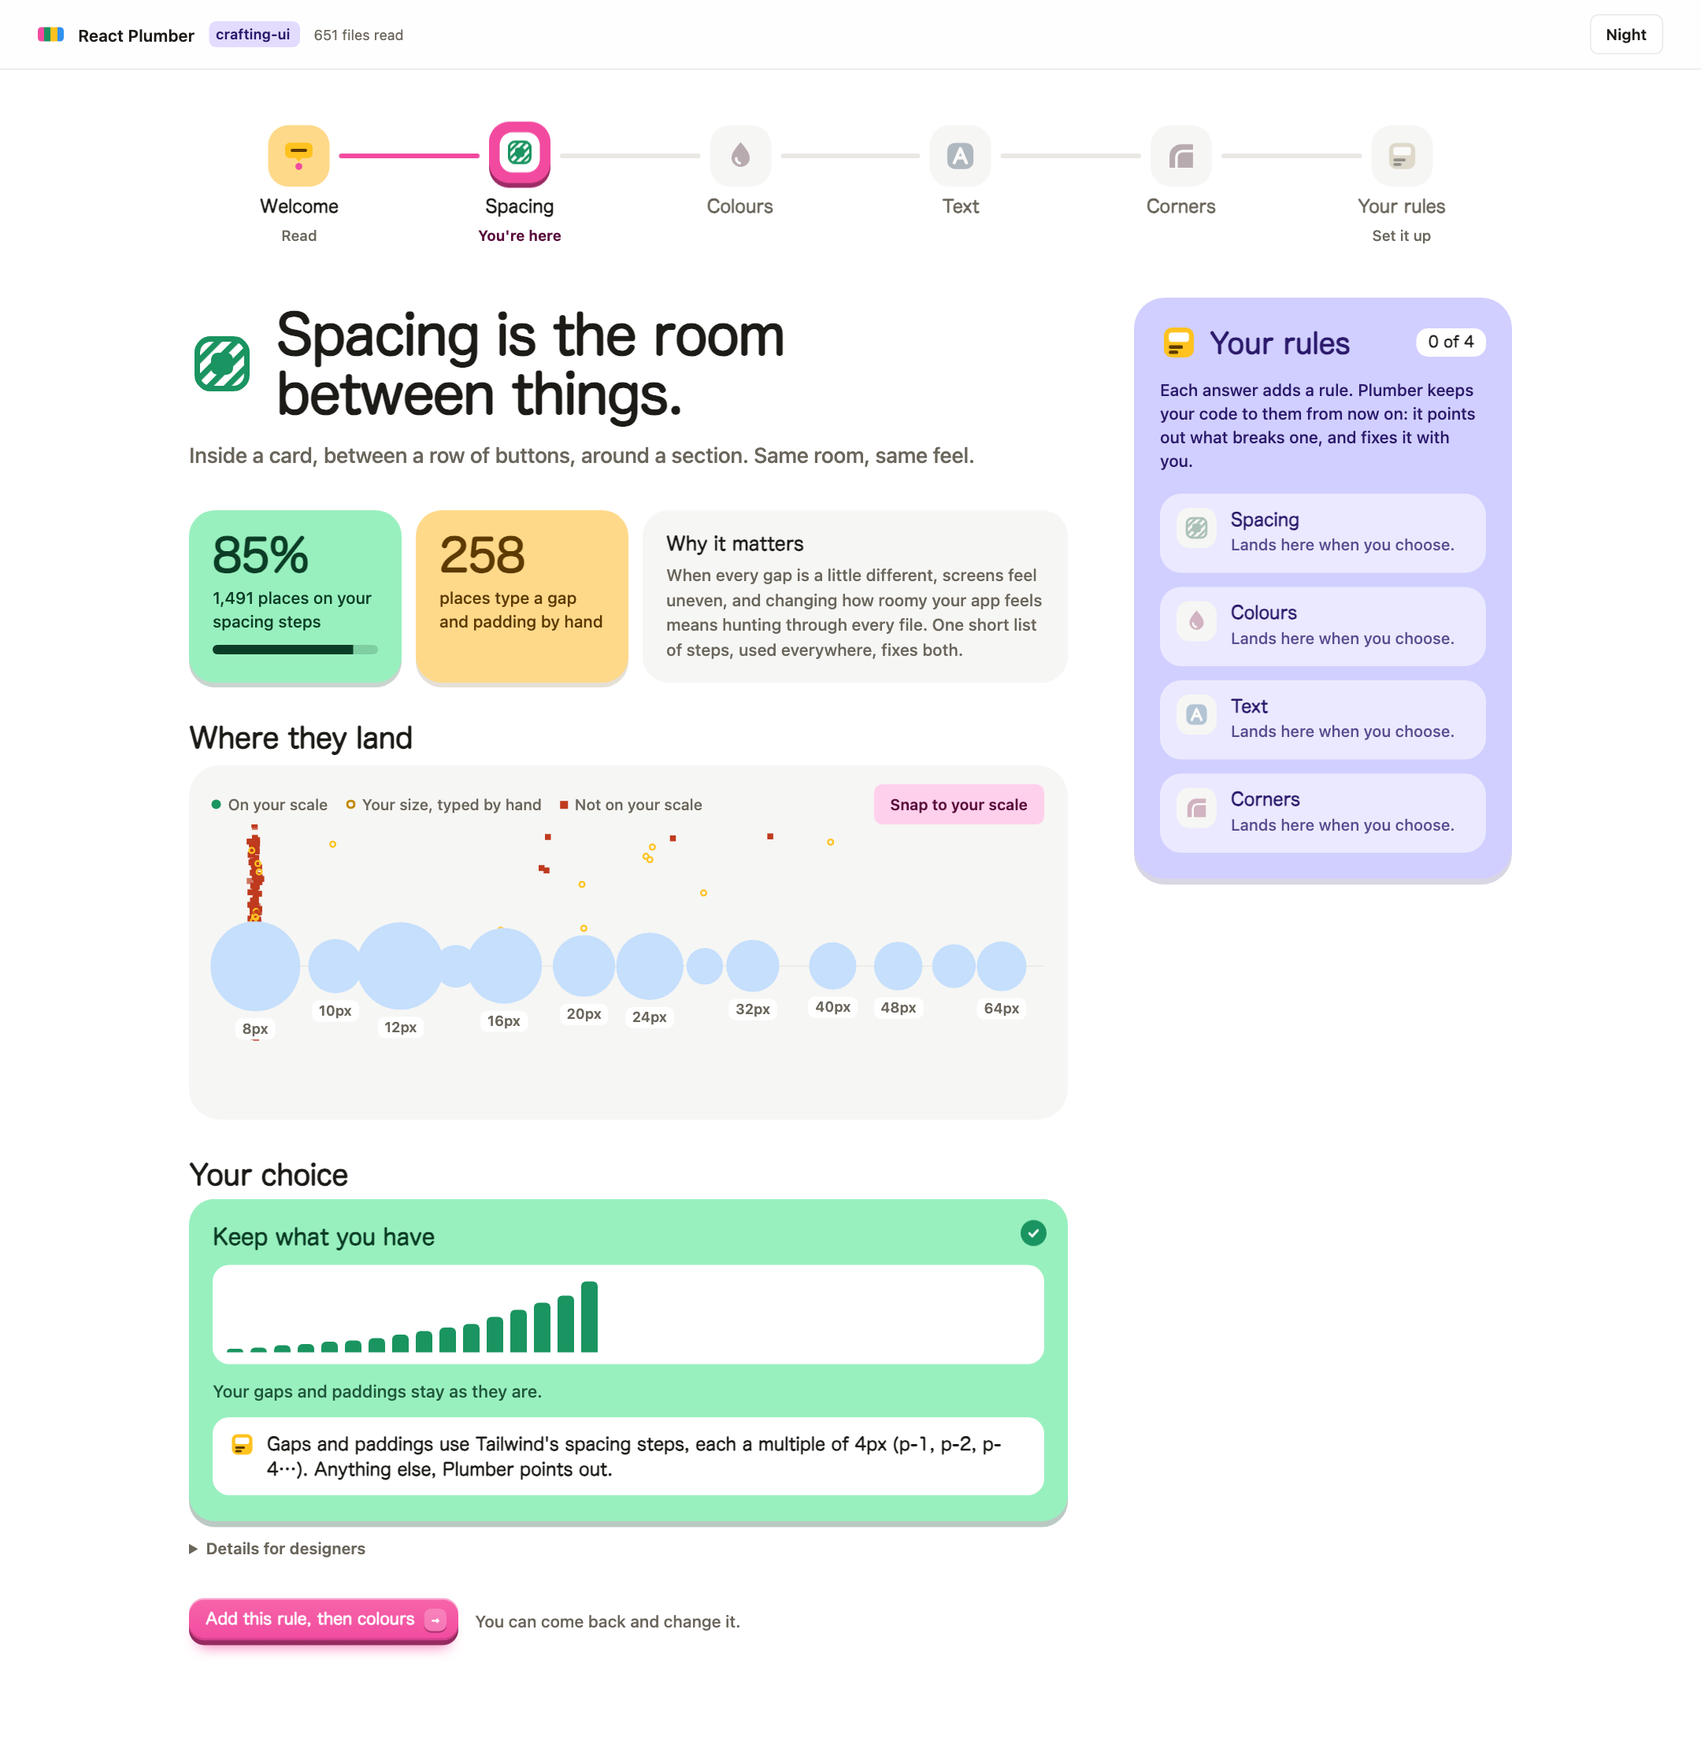
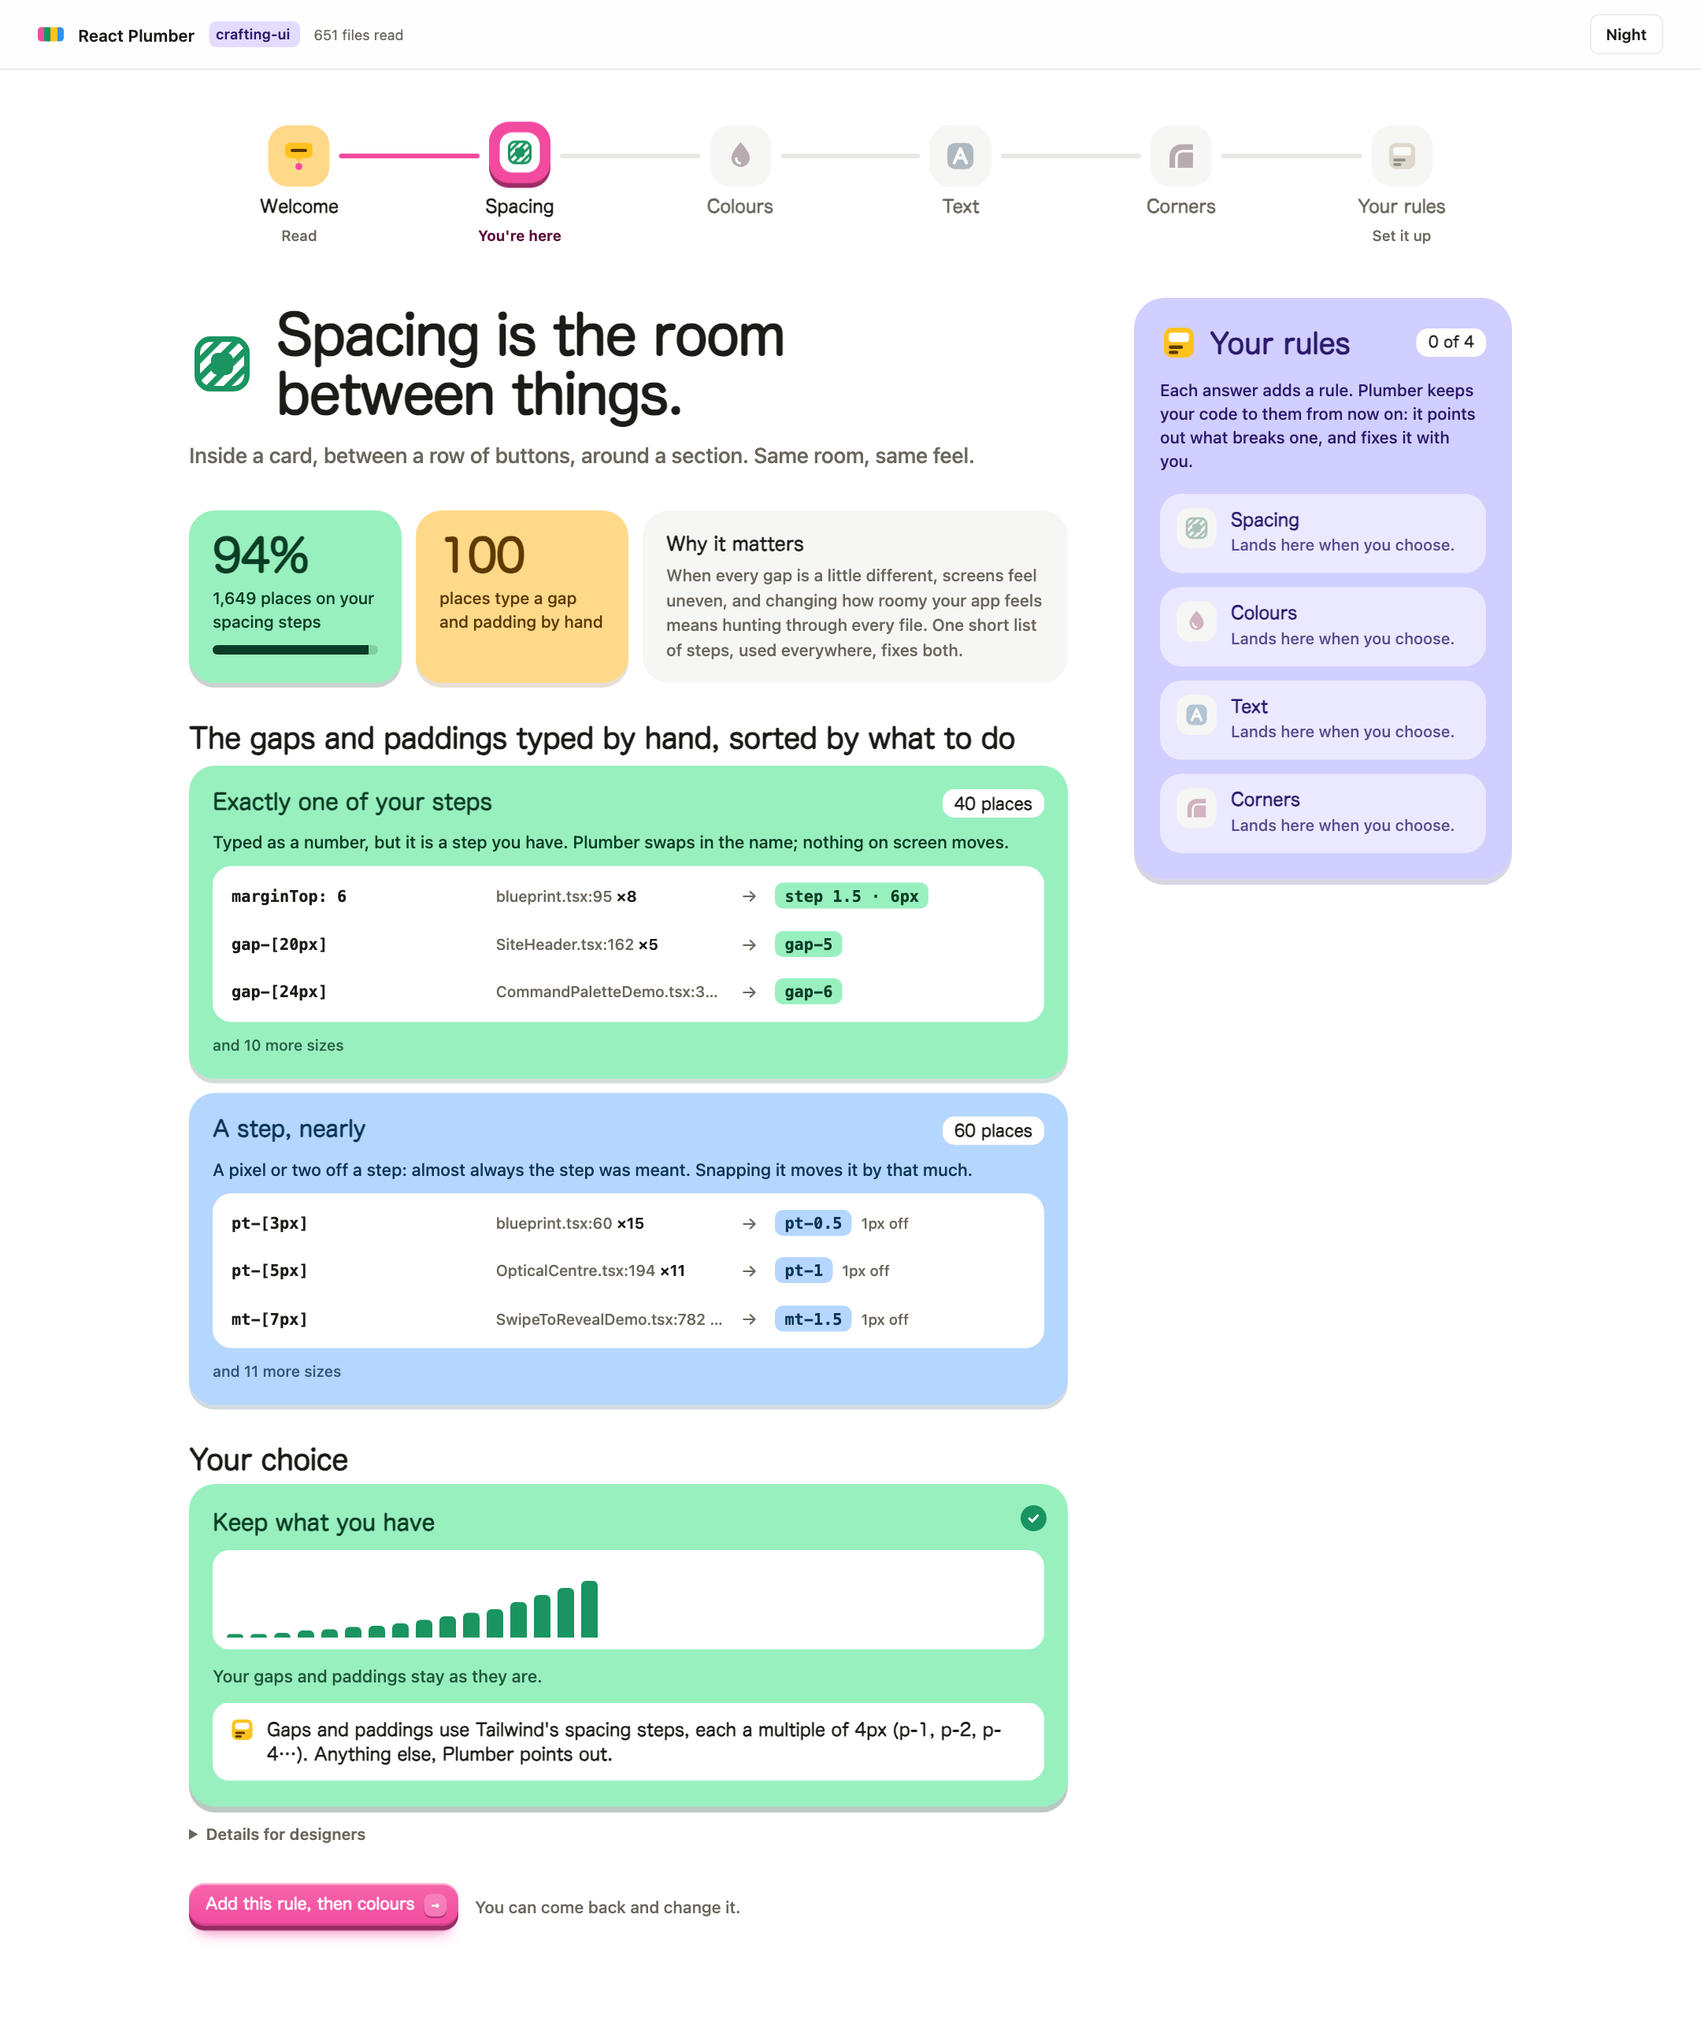
feat(onboarding): sizes typed by hand sorted by what to do, with real lines; Tailwind's step 1 counts as a step
The dot chart is replaced by three piles (exactly a step, a step nearly, far from every step), each with its busiest
lines as written, where they are and what they become. The page data carries each value's first places. gap-1 is
var(--spacing) with no multiplier, and the page now reads it as step 1.

diff --git a/overlay/src/lesson.js b/overlay/src/lesson.js
@@ -140,6 +140,31 @@ const LESSON_CSS = `
   @keyframes becomes-in { from { opacity: 0; translate: 0 4px; } }
   @media (prefers-reduced-motion: reduce) { .becomes { animation: none; } }
 
+  /* the sizes typed by hand, as three piles; each a soft block in a hue that says what it is (mint: the same, sky:
+     almost, coral: off), its busiest lines on a white cut-out: as written, where, and what it becomes */
+  .piles { display: grid; gap: 12px; }
+  .pile { display: grid; gap: 10px; padding: 18px 20px 20px; border-radius: 22px; background: var(--hf); color: var(--hi); box-shadow: 0 4px 0 color-mix(in oklab, var(--hi) 18%, transparent); }
+  .pile header { display: flex; align-items: baseline; gap: 12px; }
+  .pile header b { font: var(--pl-round-w, 700) 19px/24px var(--pl-round); }
+  .pile header .n { margin-left: auto; padding: 3px 10px; border-radius: 10px; background: var(--pl-cut); color: var(--pl-ink); font: var(--pl-round-w, 700) 14px/18px var(--pl-round); font-variant-numeric: tabular-nums; }
+  .pile > p { margin: 0; font: 500 14.5px/21px var(--pl-sans); }
+  .pile ol { display: grid; gap: 2px; margin: 0; padding: 6px; border-radius: 16px; background: var(--pl-cut); list-style: none; }
+  .pile li { display: grid; grid-template-columns: minmax(0, 1.1fr) minmax(0, 1fr) 20px minmax(0, 1.1fr); align-items: center; gap: 12px; padding: 8px 10px; border-radius: 10px; color: var(--pl-ink); }
+  .pile li:hover { background: var(--pl-paper-2); }
+  .pile code { font: 600 13.5px/20px var(--pl-mono); overflow: hidden; text-overflow: ellipsis; white-space: nowrap; }
+  .pile .was { color: var(--pl-ink); }
+  .pile .at { font: 500 13px/18px var(--pl-sans); color: var(--pl-ink-2); overflow: hidden; text-overflow: ellipsis; white-space: nowrap; }
+  .pile .at b { color: var(--pl-ink); font-weight: 650; }
+  .pile .arrow { color: var(--pl-ink-2); text-align: center; }
+  .pile .to { display: flex; align-items: baseline; gap: 8px; min-width: 0; }
+  .pile .to code { padding: 1px 8px; border-radius: 7px; background: var(--hf); color: var(--hi); }
+  .pile .to small { font: 500 12.5px/16px var(--pl-sans); color: var(--pl-ink-2); }
+  .pile .to.far { font: 500 13px/18px var(--pl-sans); color: var(--pl-ink-2); }
+  .pile .more-n { font: 500 13px/18px var(--pl-sans); opacity: .8; }
+  .clear { display: flex; align-items: center; gap: 10px; margin: 0; padding: 16px 20px; border-radius: 22px; background: var(--pl-mint-face); color: var(--pl-mint-ink); font: var(--pl-round-w, 650) 16px/22px var(--pl-round); }
+  .clear .toy { width: 24px; height: 24px; }
+  @media (max-width: 760px) { .pile li { grid-template-columns: minmax(0, 1fr) 20px minmax(0, 1fr); } .pile .at { grid-column: 1 / -1; grid-row: 2; } }
+
   /* the drawing inside the lesson: the lesson names it, so its own title goes; its key sits small at the top; the
      step marks are solid, the count lives in the tiles above, and Snap is a quiet toggle in the corner */
   #gravity .gv-head { padding: 16px 20px 0; }
@@ -421,7 +446,7 @@ export function mountLesson(host, data, { post } = {}) {
     return `<section class="screen" style="--hf: var(${HUES[s.hue][0]}); --hi: var(${HUES[s.hue][1]})">${face(s, m.spec.title, m.spec.line)}
       <div class="body">
         ${today(onSteps, m.byHand, `on your ${m.spec.gravity.sizes}`, `${m.byHand === 1 ? 'place types a' : 'places type a'} ${m.spec.noun} by hand`, m.spec.why)}
-        <div class="part"><h3>Where they land</h3><div id="gravity"></div>${lists}</div>
+        <div class="part"><h3>The ${m.spec.nouns} typed by hand, sorted by what to do</h3>${sorted(m)}${lists}</div>
         <div class="part"><h3>Your choice</h3><div class="choices" role="radiogroup" aria-label="${esc(s.name)}">
           ${m.needed ? `<button type="button" class="choice" role="radio" aria-checked="${state.choice[m.family] === 'tidy'}" data-pick="${m.family}:tidy"><b>One list of ${m.one.steps.length}<span class="rec">Suggested</span></b>${preview(m.family, m.one.steps.map((x) => x.px))}<span>Your lists merged into one, with Tailwind's name. The old names keep working, pointing at the new ones.</span>${chosen('tidy')}</button>` : ''}
           <button type="button" class="choice" role="radio" aria-checked="${state.choice[m.family] === 'keep'}" data-pick="${m.family}:keep"><b>${bare(m) ? 'Skip it for now' : 'Keep what you have'}</b>${bare(m) ? '' : preview(m.family, keepVals, m.twice)}<span>${bare(m) ? skipLine : m.lanes.length > 1 ? `All ${m.lanes.length} lists stay as they are. You can tidy them later.` : `Your ${m.spec.nouns} stay as they are.`}</span>${chosen('keep')}</button>
@@ -429,6 +454,40 @@ export function mountLesson(host, data, { post } = {}) {
           <details class="more"><summary>Details for designers</summary><p><code>${esc(rule.code)}</code><br>${m.lanes.map((l) => `${esc(l.name)} in ${esc(l.file)}: ${l.values.join(', ')}px`).join('<br>') || 'No lists of steps; single tokens only.'}${m.one ? `<br>Merged: ${m.one.steps.map((x) => `${esc(x.name)} ${esc(x.value)}`).join(', ')}` : ''}</p></details></div>
         ${nav(s.id)}
       </div></section>`;
+  };
+
+  /* the sizes typed by hand, in three piles by what a person would do with them: exactly a step (swap in the name,
+     nothing moves), a step's near miss (snap it, it moves a pixel or two), far from every step (one-offs, or a step
+     your list is missing). Each pile shows its busiest lines as written, where they are, and what they'd become */
+  const sorted = (m) => {
+    const d = data[m.spec.data] ?? { steps: [], strays: [] }, steps = [...d.steps].sort((a, b) => a.px - b.px);
+    if (!d.strays.length) return `<p class="clear"><i class="toy">${toyOf('card')}</i>Nothing typed by hand: every ${esc(m.spec.noun)} comes from your theme.</p>`;
+    const stepOf = (name) => steps.find((x) => x.name === name);
+    const short = (name) => String(name).replace(/^(spacing|text|radius)-/, '');
+    const fmt = (v) => `${Math.round(v * 100) / 100}px`;
+    // a Tailwind class written with a bracket value becomes the same utility with the step's name (`p-[16px]` → `p-4`)
+    const swap = (text, step) => { const k = /^(-?[\w:-]*?)-\[[^\]]+\]$/.exec(text ?? ''); return k ? `${k[1]}-${short(step.name)}` : `step ${short(step.name)} · ${fmt(step.px)}`; };
+    const piles = { exact: [], close: [], far: [] };
+    for (const x of d.strays) {
+      const near = stepOf(x.near), off = near ? Math.abs(near.px - x.px) : Infinity;
+      piles[x.copy ? 'exact' : off <= Math.max(2, near.px * 0.125) ? 'close' : 'far'].push({ ...x, step: near, off });
+    }
+    const words = {
+      exact: ['Exactly one of your steps', `Typed as a number, but it is a step you have. Plumber swaps in the name; nothing on screen moves.`, 'mint'],
+      close: ['A step, nearly', `A pixel or two off a step: almost always the step was meant. Snapping it moves it by that much.`, 'sky'],
+      far: ['Far from every step', `One-offs, or a step your list is missing. Plumber points them out; you decide.`, 'coral'],
+    };
+    const row = (x, kind) => {
+      const w = x.written[0]?.text ?? fmt(x.px), at = x.where?.[0];
+      const lo = [...steps].reverse().find((st) => st.px < x.px), hi = steps.find((st) => st.px > x.px);
+      const to = kind === 'far' ? `<span class="to far">${lo && hi ? `between ${fmt(lo.px)} and ${fmt(hi.px)}` : hi ? `below your smallest, ${fmt(hi.px)}` : `above your largest, ${fmt(lo.px)}`}</span>` : `<span class="to"><code>${esc(swap(w, x.step))}</code>${kind === 'close' ? `<small>${fmt(x.off)} off</small>` : ''}</span>`;
+      return `<li><code class="was">${esc(w)}</code><span class="at">${at ? `${esc(at.file.split('/').pop())}:${at.line}` : ''}${x.places > 1 ? ` <b>×${nf.format(x.places)}</b>` : ''}</span><span class="arrow" aria-hidden="true">→</span>${to}</li>`;
+    };
+    return `<div class="piles">${Object.entries(piles).filter(([, xs]) => xs.length).map(([kind, xs]) => {
+      const n = xs.reduce((t, x) => t + x.places, 0), [title, say, hue] = words[kind];
+      return `<section class="pile" style="--hf: var(--pl-${hue}-face); --hi: var(--pl-${hue}-ink)"><header><b>${title}</b><span class="n">${nf.format(n)} ${n === 1 ? 'place' : 'places'}</span></header><p>${say}</p>
+        <ol>${[...xs].sort((a, b) => b.places - a.places).slice(0, 3).map((x) => row(x, kind)).join('')}</ol>${xs.length > 3 ? `<small class="more-n">and ${nf.format(xs.length - 3)} more ${xs.length - 3 === 1 ? 'size' : 'sizes'}</small>` : ''}</section>`;
+    }).join('')}</div>`;
   };
 
   // the problem first: how much of this kind is on your steps, how much is typed by hand, and why that matters

diff --git a/src/project-page/system.ts b/src/project-page/system.ts
@@ -21,7 +21,8 @@ import { runnerOf } from '../runner.js';
  */
 export interface Written { text: string; n: number }
 export interface Step { name: string; px: number; uses: number }
-export interface Stray { px: number; places: number; scaled: number; near: string | null; copy: boolean; written: Written[] }
+/** `where`: the first places it is typed, as a person finds them (path from the project's folder, and line) */
+export interface Stray { px: number; places: number; scaled: number; near: string | null; copy: boolean; written: Written[]; where: { file: string; line: number }[] }
 export interface ColourStep { name: string; css: string; uses: number }
 export interface ColourStray { css: string; places: number; near: string | null; distance: number | null; alpha: string | null; written: Written[] }
 export interface SystemData {
@@ -146,7 +147,8 @@ export function systemOf(report: Report): SystemData {
   // names it (`p-4`); the theme defines no list of its own (algorecall: 98% of spacing on them, drawn as by hand before)
   const numeric = report.numericSpacing && !report.numericSpacing.replaced ? report.numericSpacing.unit : undefined;
   const base = numeric ? px(String(numeric.resolved)) : null;
-  const multiple = (value: string): number | null => { const m = /^calc\(\s*var\(--spacing\)\s*\*\s*(-?\d*\.?\d+)\s*\)$/.exec(value.trim()); return m ? Number(m[1]) : null; };
+  // Tailwind writes step 1 as the base itself (`gap-1` is `gap: var(--spacing)`), every other step as a multiple
+  const multiple = (value: string): number | null => { if (/^var\(--spacing\)$/.test(value.trim())) return 1; const m = /^calc\(\s*var\(--spacing\)\s*\*\s*(-?\d*\.?\d+)\s*\)$/.exec(value.trim()); return m ? Number(m[1]) : null; };
   function scale(family: Report['decisions'][number]['family'], props: Set<string>, least = 0): { steps: Step[]; strays: Stray[] } {
     const steps = new Map<string, Step>();
     for (const d of decisions) {
@@ -156,7 +158,7 @@ export function systemOf(report: Report): SystemData {
       const value = px(part);
       if (value !== null) steps.set(d.name, { name: d.name.slice(2), px: value, uses: 0 });
     }
-    const strays = new Map<number, { places: number; written: Map<string, number>; scaled: number }>();
+    const strays = new Map<number, { places: number; written: Map<string, number>; scaled: number; where: { file: string; line: number }[] }>();
     for (const d of decls) {
       if (!props.has(d.prop)) continue;
       const ref = refs(d).find(r => steps.has(r));
@@ -169,9 +171,10 @@ export function systemOf(report: Report): SystemData {
       const value = !scaled(d) ? px(d.resolved) : px(d.value);
       // below `least` is a unit artifact (a unitless or em value read as px), not a size anyone set
       if (value === null || value < Math.max(least, 0.01)) continue;
-      const s = strays.get(value) ?? { places: 0, written: new Map(), scaled: 0 };
+      const s = strays.get(value) ?? { places: 0, written: new Map<string, number>(), scaled: 0, where: [] as { file: string; line: number }[] };
       strays.set(value, s);
       s.places++; bump(s.written, d.site.text);
+      if (s.where.length < 3 && d.site.file) s.where.push({ file: relative(report.root, d.site.file).replaceAll('\\', '/'), line: d.site.line });
       if (scaled(d)) s.scaled++;
     }
     const ordered = [...steps.values()].sort((a, b) => a.px - b.px);
@@ -180,7 +183,7 @@ export function systemOf(report: Report): SystemData {
       let near: Step | undefined;
       for (const step of ordered) if (!near || Math.abs(step.px - value) < Math.abs(near.px - value)) near = step;
       out.push({ px: value, places: s.places, scaled: s.scaled, near: near ? near.name : null,
-        copy: near !== undefined && Math.abs(near.px - value) < 0.01, written: top(s.written) });
+        copy: near !== undefined && Math.abs(near.px - value) < 0.01, written: top(s.written), where: s.where });
     }
     return { steps: ordered, strays: out.sort((a, b) => a.px - b.px) };
   }

diff --git a/docs/journey.md b/docs/journey.md
@@ -3842,6 +3842,17 @@ Moved to [backlog.md](backlog.md) on 2026-11-12, at the owner's request: one lis
   as three tiles. Below them is the drawing under one title, with its key and the Snap toggle in one row, solid step
   marks and no empty footer. The choice comes last, and the option you pick shows the rule it becomes inside it. The
   config line moved into Details. The side panel no longer repeats each rule's code.
+- **Fourth round, the drawing replaced:** the owner didn't like the dot chart ("i want more and intuitiveness"). It
+  made a newcomer decode it: circle size meant usage, dot height meant nothing, and there were three legend colours.
+  Asked what intuitive means to them, they chose "feels like a guide" and "see the result", and picked sorting by what
+  to do. The sizes typed by hand now fall into three piles: exactly one of your steps (Plumber swaps in the name and
+  nothing moves), a step nearly (a pixel or two off, almost always the step was meant), and far from every step
+  (one-offs, or a step the list is missing). Each pile shows its busiest lines as written, where they are and what
+  they become (`gap-[20px]` in SiteHeader.tsx:162, five times, becomes `gap-5`). The page data now carries the first
+  three places of each value.
+- **A bug the piles exposed:** `gap-1` (160 places on crafting-ui) showed as typed by hand. Tailwind writes step 1 as
+  `var(--spacing)` with no `* 1`, and the page only read the multiplied form. Fixed: crafting-ui's spacing is 94% on
+  its steps (1,649 places), not 85%, and 100 places are typed by hand, not 258.
 - **Found on the way:** on the pink key the colours and corners toys, both pink, vanished. They now sit on a white
   cut-out.
 - **Proof:** screenshots of every step on crafting-ui in `docs/films/onboarding/` (welcome-design-style.png is the
